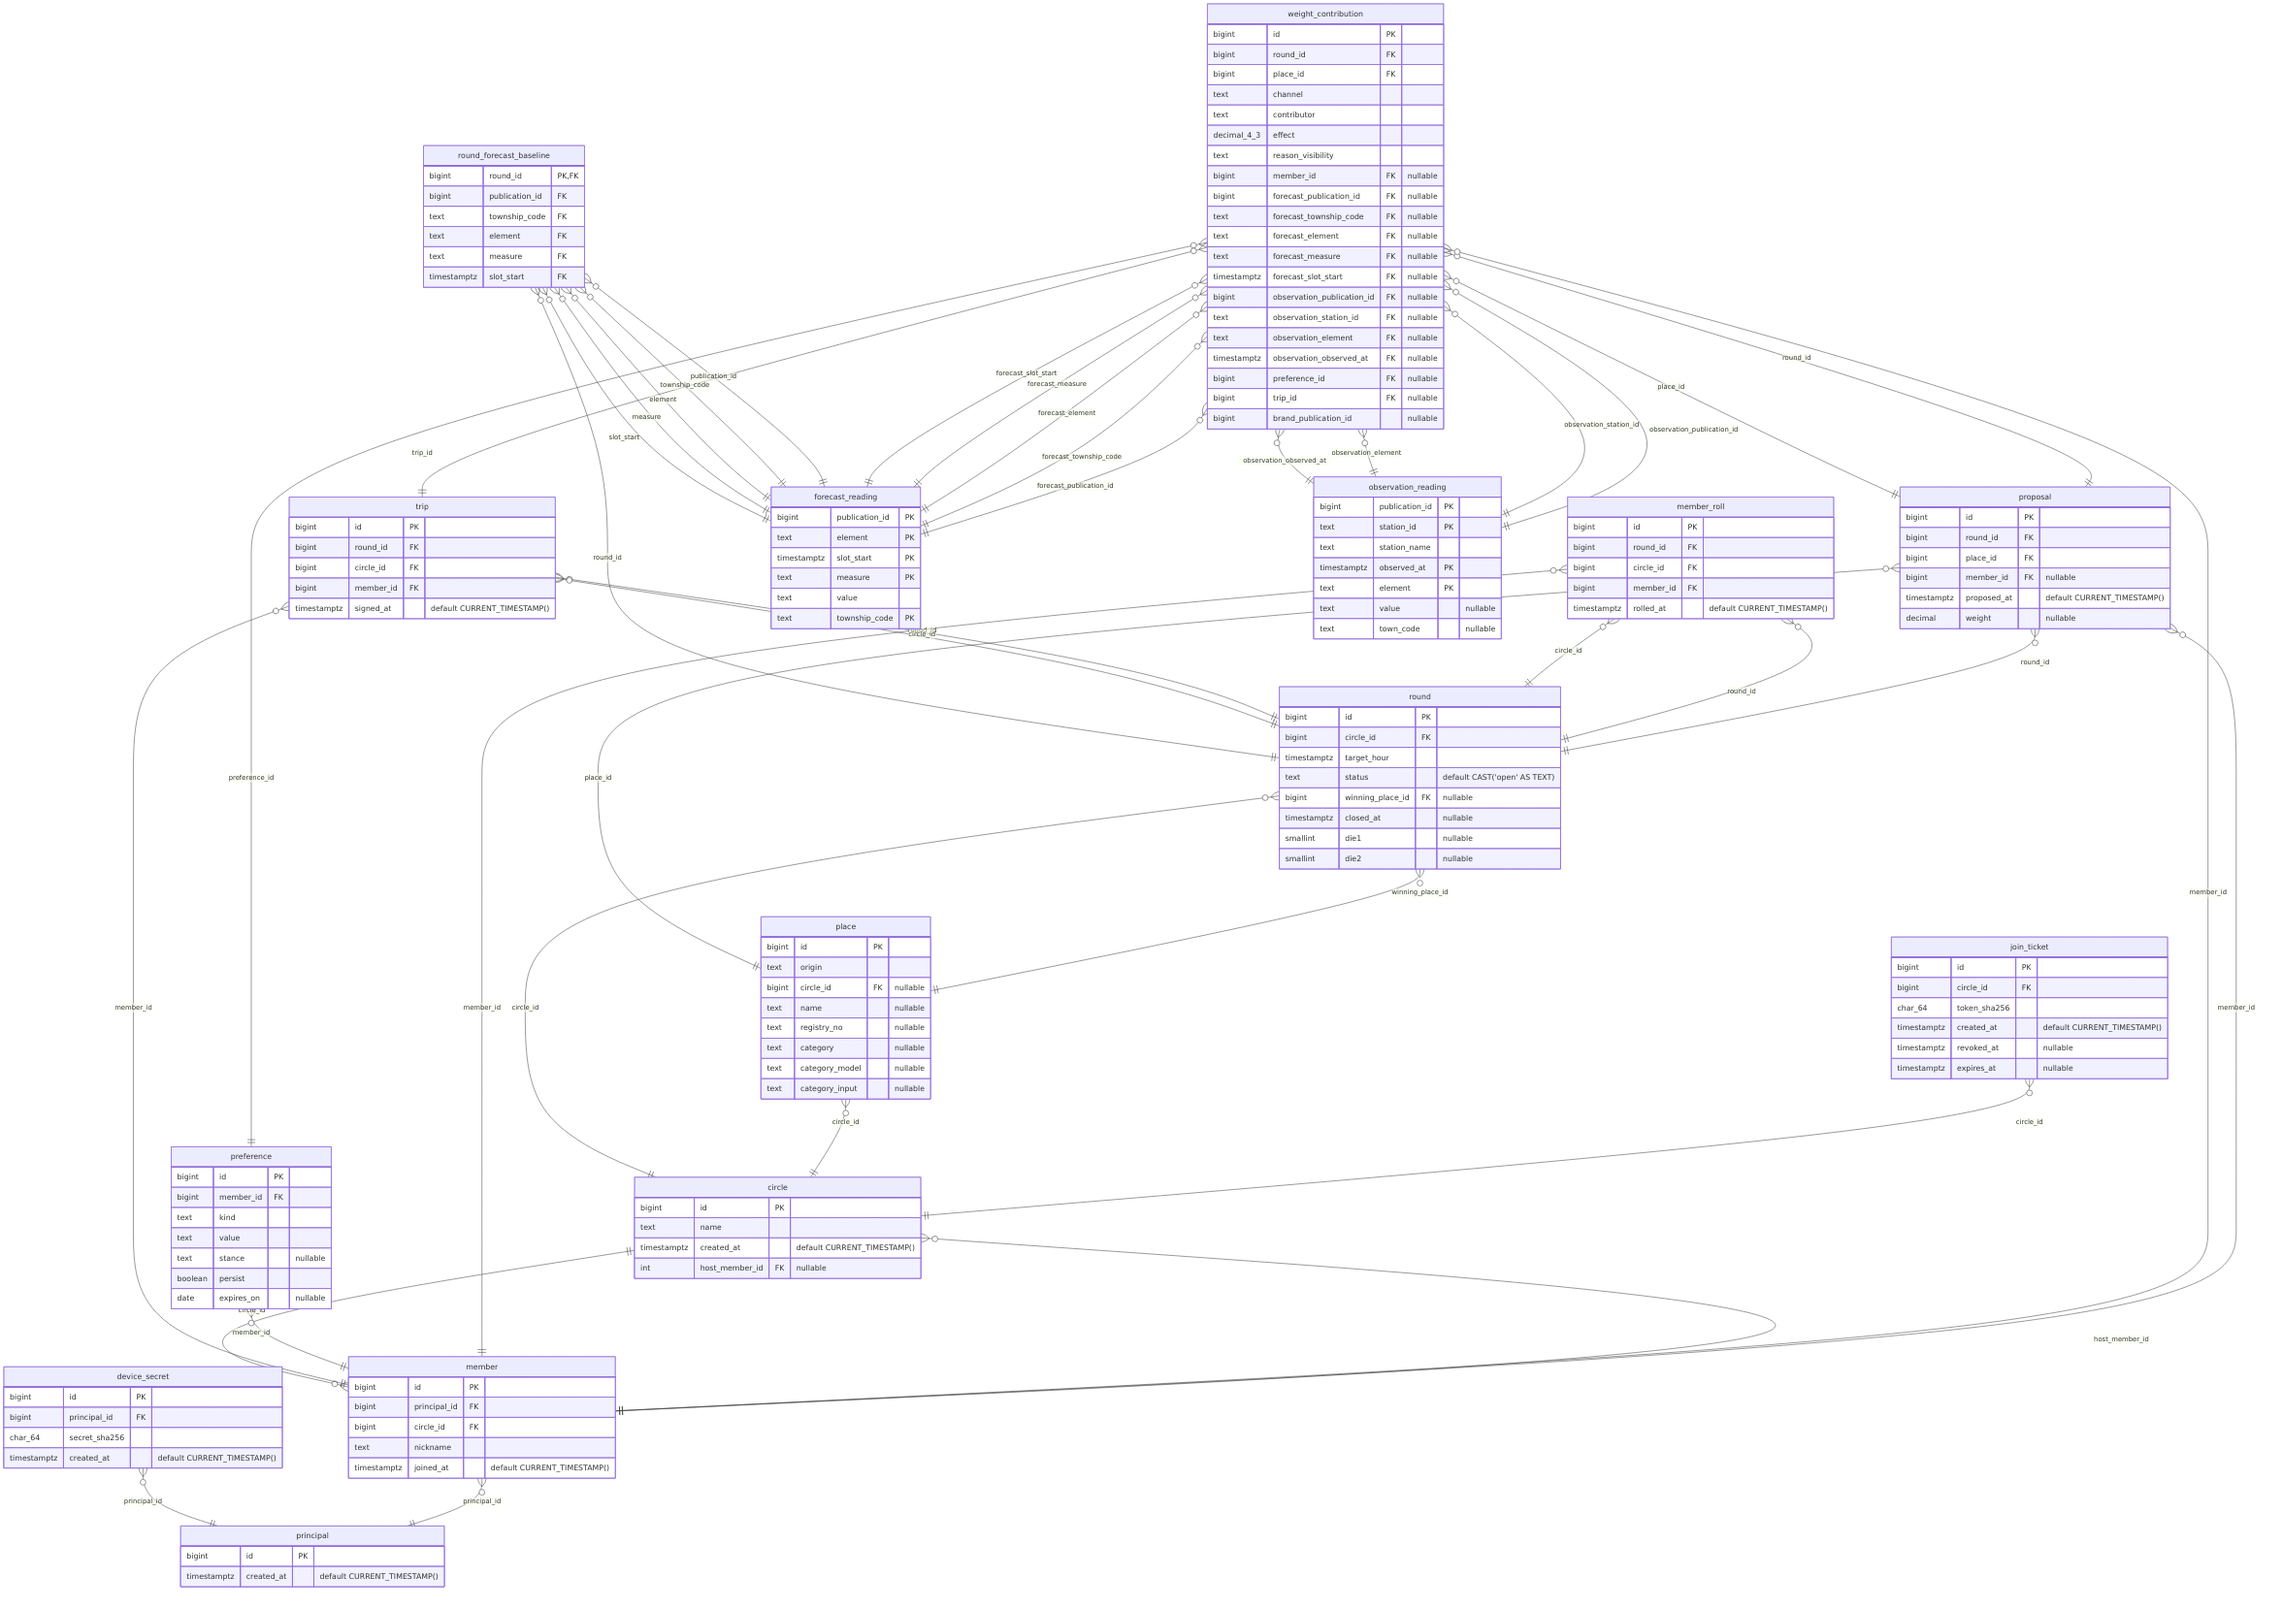
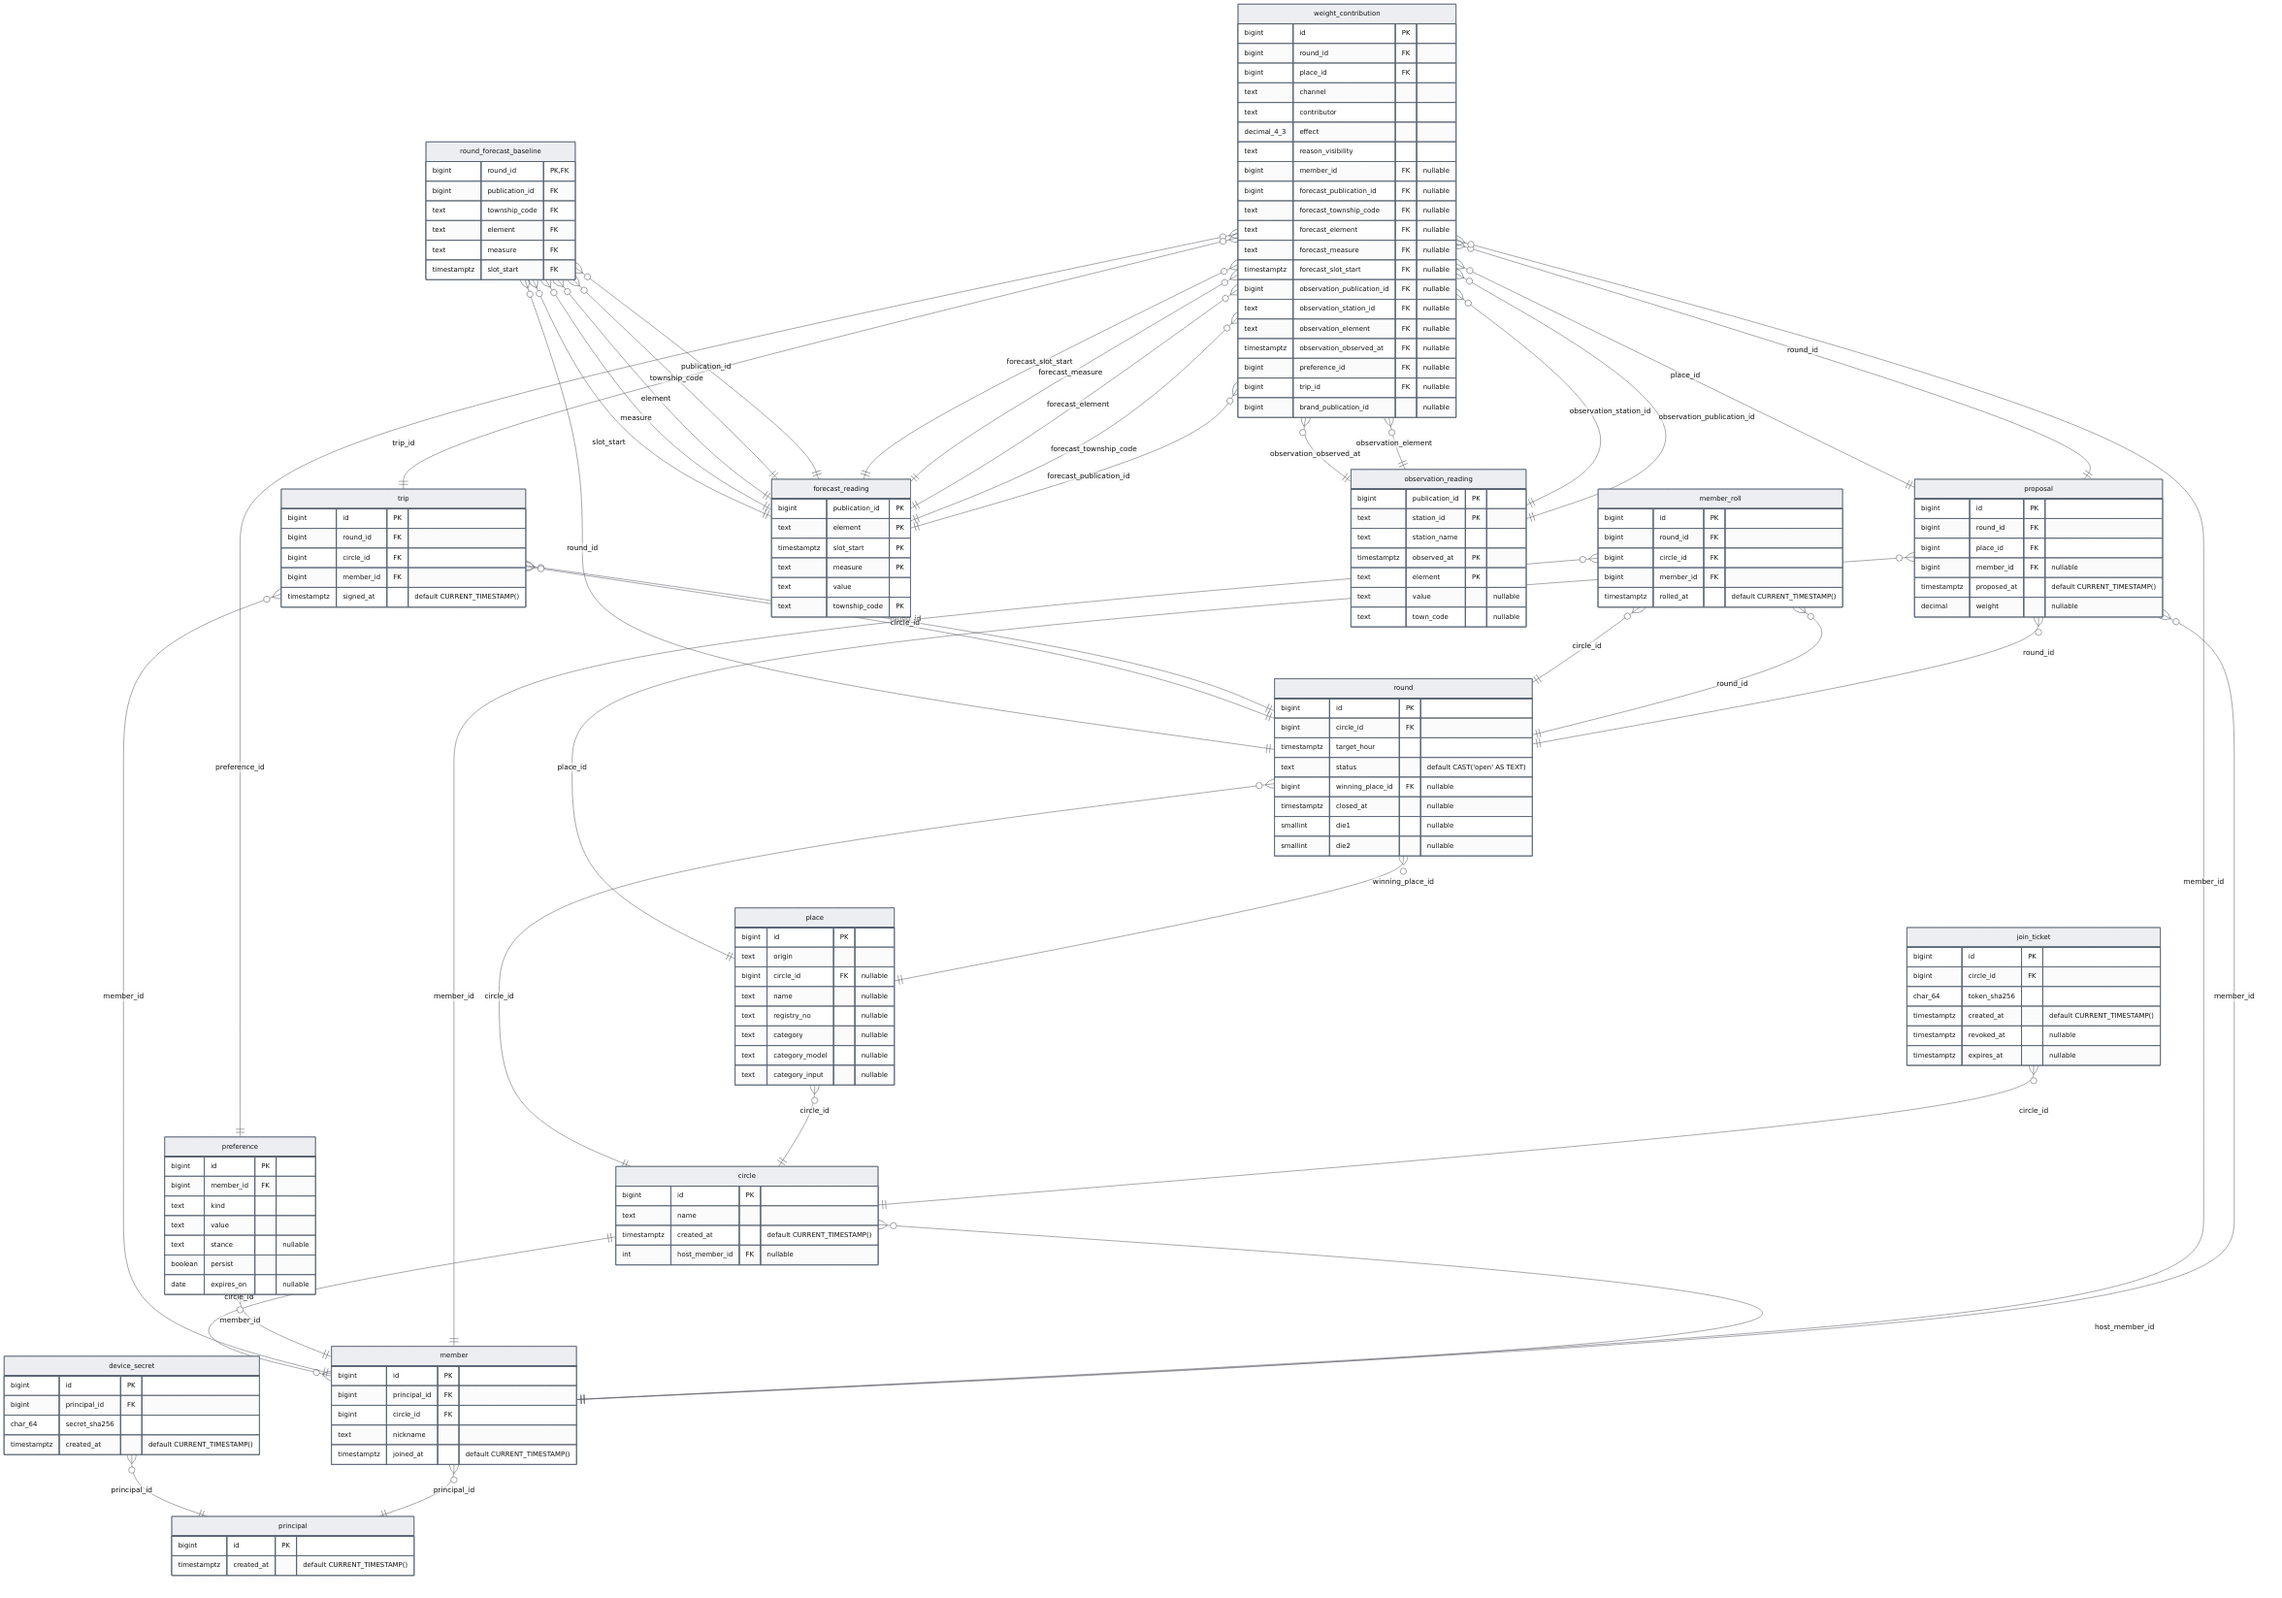
diagrams: the ER diagrams take their look from style.json, through mermaid's base theme
mermaid_theme.py maps the design tokens onto mermaid's base theme (an entity in the
"stored" key colour, text in ink, lines muted, attribute rows alternating background
and fill, the shared font stack at the body size) and build.sh passes the result with
-c. A token missing from style.json stops the build with its path rather than falling
back to mermaid's defaults. All five ER pictures are re-rendered; the schema files and
the Mermaid text are unchanged, and build.sh --check reads current.

diff --git a/docs/diagrams/mermaid_theme.py b/docs/diagrams/mermaid_theme.py
@@ -1,0 +1,74 @@
+#!/usr/bin/env python3
+"""Print mermaid-cli's `-c` config for the ER diagrams, derived from `style.json`.
+
+The README pictures and the ER diagrams share one look, and `style.json` (design tokens, W3C
+Design Tokens Format 2025.10) is where it is decided. Mermaid does not read tokens, so this maps
+the few it needs onto mermaid's `base` theme, the one theme whose variables are all honoured:
+
+- an entity is the colour key's "stored" meaning (the database): its tint fills the box, its
+  border draws the edge;
+- text is `color.ink`, relationship lines `color.muted`, the sheet `color.background`;
+- attribute rows alternate between the background and `color.fill`;
+- the font is `font.family`, at `font.size.body`.
+
+    python3 docs/diagrams/mermaid_theme.py [style.json] > config.json
+
+Standard library only. A token missing from style.json stops it with the token's path, so a
+renamed token cannot quietly fall back to mermaid's own defaults.
+"""
+
+import json
+import os
+import sys
+
+
+def token(tokens, path):
+    node = tokens
+    for part in path.split("."):
+        if not isinstance(node, dict) or part not in node:
+            sys.exit("mermaid_theme: style.json has no {}".format(path))
+        node = node[part]
+    return node["$value"]
+
+
+def hex_colour(tokens, path):
+    return token(tokens, path)["hex"]
+
+
+def px(tokens, path):
+    value = token(tokens, path)
+    if value.get("unit") != "px":
+        sys.exit("mermaid_theme: {} is not in px".format(path))
+    return "{:g}px".format(value["value"])
+
+
+def config(tokens):
+    family = token(tokens, "font.family")
+    family = family if isinstance(family, str) else ", ".join(
+        '"{}"'.format(f) if " " in f else f for f in family)
+    ink, muted = hex_colour(tokens, "color.ink"), hex_colour(tokens, "color.muted")
+    return {
+        "theme": "base",
+        "themeVariables": {
+            "background": hex_colour(tokens, "color.background"),
+            "primaryColor": hex_colour(tokens, "color.key.stored.tint"),
+            "primaryBorderColor": hex_colour(tokens, "color.key.stored.border"),
+            "primaryTextColor": ink,
+            "textColor": ink,
+            "lineColor": muted,
+            "attributeBackgroundColorOdd": hex_colour(tokens, "color.background"),
+            "attributeBackgroundColorEven": hex_colour(tokens, "color.fill"),
+            "fontFamily": family,
+            "fontSize": px(tokens, "font.size.body"),
+        },
+    }
+
+
+def main():
+    path = sys.argv[1] if len(sys.argv) > 1 else os.path.join(os.path.dirname(os.path.abspath(__file__)), "style.json")
+    with open(path, encoding="utf-8") as f:
+        print(json.dumps(config(json.load(f)), indent=2))
+
+
+if __name__ == "__main__":
+    main()
